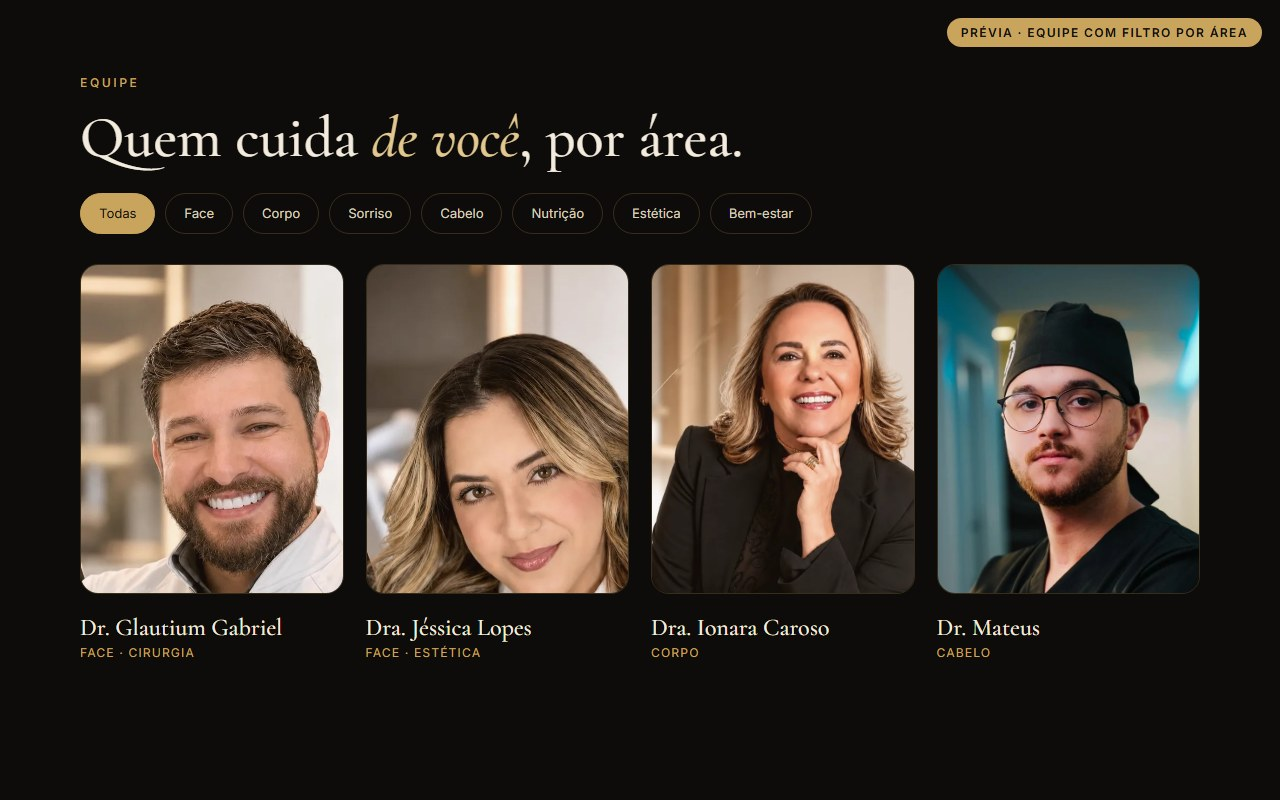
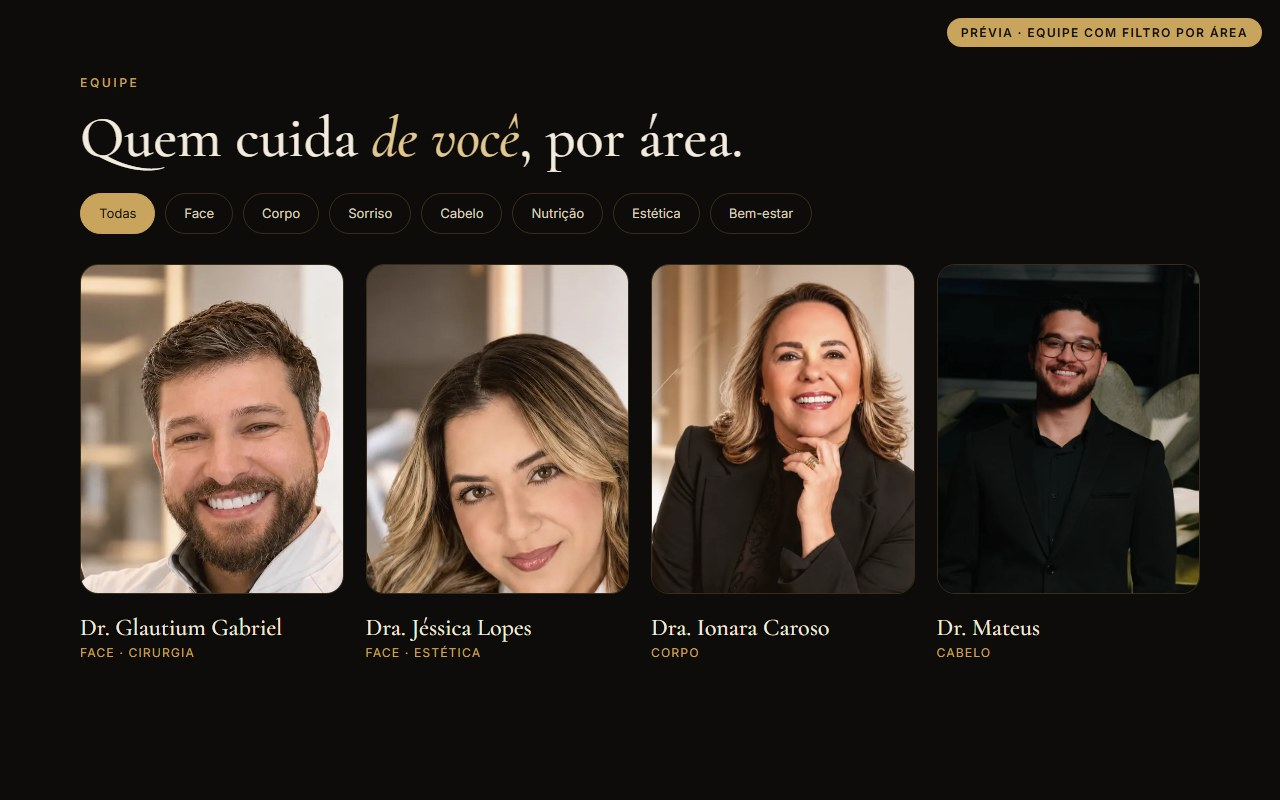
Equipe: Dr. Mateus com a foto de terno enviada pelo Dr. e 'Tricologia e implante capilar'; Natieli enfermeira com COREN (documento do Dr.)

Changed region(s): [[0.7188, 0.3125, 0.9375, 0.75]]

diff --git a/index.html b/index.html
@@ -130,13 +130,13 @@
       <div class="pessoa surge"><img src="img/ihfc-equipe-ionara-caroso.webp" alt="Dra. Ionara Caroso" loading="lazy"><h3>Dra. Ionara Caroso</h3><p>Médica · estética, corpo e dermatologia</p></div>
       <div class="pessoa surge"><img src="img/ihfc-equipe-hudson-soares.webp" alt="Dr. Hudson D. Soares" loading="lazy"><h3>Dr. Hudson D. Soares</h3><p>Implantes, estética e reabilitação oral</p></div>
       <div class="pessoa surge"><img src="img/ihfc-equipe-juliana.webp" alt="Dra. Juliana Coelho Moreno" loading="lazy"><h3>Dra. Juliana Coelho Moreno</h3><p>Implantes, estética dental e atendimento infantil</p></div>
-      <div class="pessoa surge"><img src="img/ihfc-equipe-dr-mateus.webp" alt="Dr. Mateus" loading="lazy"><h3>Dr. Mateus</h3><p>Médico · tricologia e implante capilar</p></div>
+      <div class="pessoa surge"><img src="img/ihfc-equipe-dr-mateus.webp" alt="Dr. Mateus" loading="lazy"><h3>Dr. Mateus</h3><p>Tricologia e implante capilar</p></div>
       <div class="pessoa surge"><img src="img/ihfc-equipe-jessica-lopes.webp" alt="Dra. Jéssica Lopes" loading="lazy"><h3>Dra. Jéssica Lopes</h3><p>Biomédica esteta · toxina, bioestimuladores e microvasos</p></div>
       <div class="pessoa surge"><img src="img/ihfc-equipe-maria-eduarda-brisola.webp" alt="Maria Eduarda Brisola" loading="lazy"><h3>Maria Eduarda Brisola</h3><p>Esteticista · limpeza de pele, peeling e microagulhamento</p></div>
       <div class="pessoa surge"><img src="img/ihfc-equipe-sabrina-amparo.webp" alt="Sabrina Amparo" loading="lazy"><h3>Sabrina Amparo</h3><p>Nutricionista</p></div>
       <div class="pessoa surge"><img src="img/ihfc-equipe-gisele.webp" alt="Gisele Gomes" loading="lazy"><h3>Gisele Gomes</h3><p>Fisioterapeuta</p><span>CREFITO-7 441870-F</span></div>
       <div class="pessoa surge"><img src="img/ihfc-equipe-neuza.webp" alt="Maria Neuza" loading="lazy"><h3>Maria Neuza</h3><p>Podóloga</p></div>
-      <div class="pessoa surge"><img src="img/ihfc-equipe-natielle.webp" alt="Natieli Batista" loading="lazy"><h3>Natieli Batista</h3><p>Massoterapeuta</p></div>
+      <div class="pessoa surge"><img src="img/ihfc-equipe-natielle.webp" alt="Natieli Batista" loading="lazy"><h3>Natieli Batista</h3><p>Enfermeira</p><span>COREN-BA 000.983.427-ENF</span></div>
     </div>
     <p class="apoio surge">E por trás de cada atendimento: <b>Jaiane</b>, na organização e orientação ao paciente, e <b>Poliana</b>, na comunicação.</p>
   </div>

diff --git a/novo.html b/novo.html
@@ -190,13 +190,13 @@
       <div class="pessoa surge"><img src="img/ihfc-equipe-ionara-caroso.webp" alt="Dra. Ionara Caroso" loading="lazy"><h3>Dra. Ionara Caroso</h3><p>Médica · estética, corpo e dermatologia</p></div>
       <div class="pessoa surge"><img src="img/ihfc-equipe-hudson-soares.webp" alt="Dr. Hudson D. Soares" loading="lazy"><h3>Dr. Hudson D. Soares</h3><p>Implantes, estética e reabilitação oral</p></div>
       <div class="pessoa surge"><img src="img/ihfc-equipe-juliana.webp" alt="Dra. Juliana Coelho Moreno" loading="lazy"><h3>Dra. Juliana Coelho Moreno</h3><p>Implantes, estética dental e atendimento infantil</p></div>
-      <div class="pessoa surge"><img src="img/ihfc-equipe-dr-mateus.webp" alt="Dr. Mateus" loading="lazy"><h3>Dr. Mateus</h3><p>Médico · tricologia e implante capilar</p></div>
+      <div class="pessoa surge"><img src="img/ihfc-equipe-dr-mateus.webp" alt="Dr. Mateus" loading="lazy"><h3>Dr. Mateus</h3><p>Tricologia e implante capilar</p></div>
       <div class="pessoa surge"><img src="img/ihfc-equipe-jessica-lopes.webp" alt="Dra. Jéssica Lopes" loading="lazy"><h3>Dra. Jéssica Lopes</h3><p>Biomédica esteta · toxina, bioestimuladores e microvasos</p></div>
       <div class="pessoa surge"><img src="img/ihfc-equipe-maria-eduarda-brisola.webp" alt="Maria Eduarda Brisola" loading="lazy"><h3>Maria Eduarda Brisola</h3><p>Esteticista · limpeza de pele, peeling e microagulhamento</p></div>
       <div class="pessoa surge"><img src="img/ihfc-equipe-sabrina-amparo.webp" alt="Sabrina Amparo" loading="lazy"><h3>Sabrina Amparo</h3><p>Nutricionista</p></div>
       <div class="pessoa surge"><img src="img/ihfc-equipe-gisele.webp" alt="Gisele Gomes" loading="lazy"><h3>Gisele Gomes</h3><p>Fisioterapeuta</p><span>CREFITO-7 441870-F</span></div>
       <div class="pessoa surge"><img src="img/ihfc-equipe-neuza.webp" alt="Maria Neuza" loading="lazy"><h3>Maria Neuza</h3><p>Podóloga</p></div>
-      <div class="pessoa surge"><img src="img/ihfc-equipe-natielle.webp" alt="Natieli Batista" loading="lazy"><h3>Natieli Batista</h3><p>Massoterapeuta</p></div>
+      <div class="pessoa surge"><img src="img/ihfc-equipe-natielle.webp" alt="Natieli Batista" loading="lazy"><h3>Natieli Batista</h3><p>Enfermeira</p><span>COREN-BA 000.983.427-ENF</span></div>
     </div>
     <p class="apoio surge">E por trás de cada atendimento: <b>Jaiane</b>, na organização e orientação ao paciente, e <b>Poliana</b>, na comunicação.</p>
   </div>

diff --git a/tricologia.html b/tricologia.html
@@ -58,7 +58,7 @@
   <div class="wrap">
     <span class="eyebrow">Quem faz</span>
     <h2>Quem cuida <em>de você</em>.</h2>
-    <div class="grade-equipe"><div class="pessoa"><img src="img/ihfc-equipe-dr-mateus.webp" alt="Dr. Mateus" loading="lazy"><h3>Dr. Mateus</h3><p>Médico · tricologia e implante capilar</p></div></div>
+    <div class="grade-equipe"><div class="pessoa"><img src="img/ihfc-equipe-dr-mateus.webp" alt="Dr. Mateus" loading="lazy"><h3>Dr. Mateus</h3><p>Tricologia e implante capilar</p></div></div>
   </div>
 </section>
 

diff --git a/_trabalho/gerar_frentes.py b/_trabalho/gerar_frentes.py
@@ -81,7 +81,7 @@ FRENTES = [
                 ("Laser e LED capilar", "Protocolos de apoio para fortalecer o fio."),
                 ("Implante capilar", "Para áreas sem fio, depois da avaliação da área doadora."),
                 ("Acompanhamento", "Retornos para medir a resposta e ajustar o plano.")],
-         quem=[("img/ihfc-equipe-dr-mateus.webp", "Dr. Mateus", "Médico · tricologia e implante capilar", "")],
+         quem=[("img/ihfc-equipe-dr-mateus.webp", "Dr. Mateus", "Tricologia e implante capilar", "")],
          botao="Entrar na lista de espera", texto="Quero entrar na lista de espera da Tricologia com o Dr. Mateus.",
          extra="As vagas da Tricologia estão abrindo agora. Entre na lista de espera e a equipe te chama assim que houver horário.",
          ponte=[("nutricao.html", "Nutrição"), ("papada-e-rosto.html", "Rosto")]),

diff --git a/_trabalho/equipe-origem-dos-dados_2026-10-27.md b/_trabalho/equipe-origem-dos-dados_2026-10-27.md
@@ -28,3 +28,9 @@ Para confirmar com o Dr. ou com cada profissional:
 - origem das fotos da Ionara e da Maria Eduarda.
 
 Dado confirmado volta a aparecer assim: editar `_trabalho/gerar_frentes.py`, editar index/novo/procedimentos e publicar.
+
+## Atualização 27/10 (ORACULO, 2ª mensagem)
+- Dr. Mateus: agora "Dr. Mateus · Tricologia e implante capilar", sem registro e sem @. Foto trocada pela **de terno sorrindo** enviada pelo Dr. (recorte sem a marca Hairzy).
+  ⚠ As 2 fotos de terno parecem a MESMA pessoa da foto da web que foi tirada; o retrato Hairzy (de touca) parece OUTRA pessoa. Confirmar com o Dr. qual é o Dr. Mateus. Se for o de terno, o CRM-BA 49804 da web pode estar certo; mesmo assim, só volta com confirmação.
+- Natieli Batista dos Santos: Enfermeira, COREN-BA 000.983.427-ENF (fonte: documento enviado pelo Dr.). Nas listas de bem-estar ela continua junto com massoterapia/drenagem: confirmar se faz isso também.
+- Jaiane: não mexido; esperar o texto dela.
